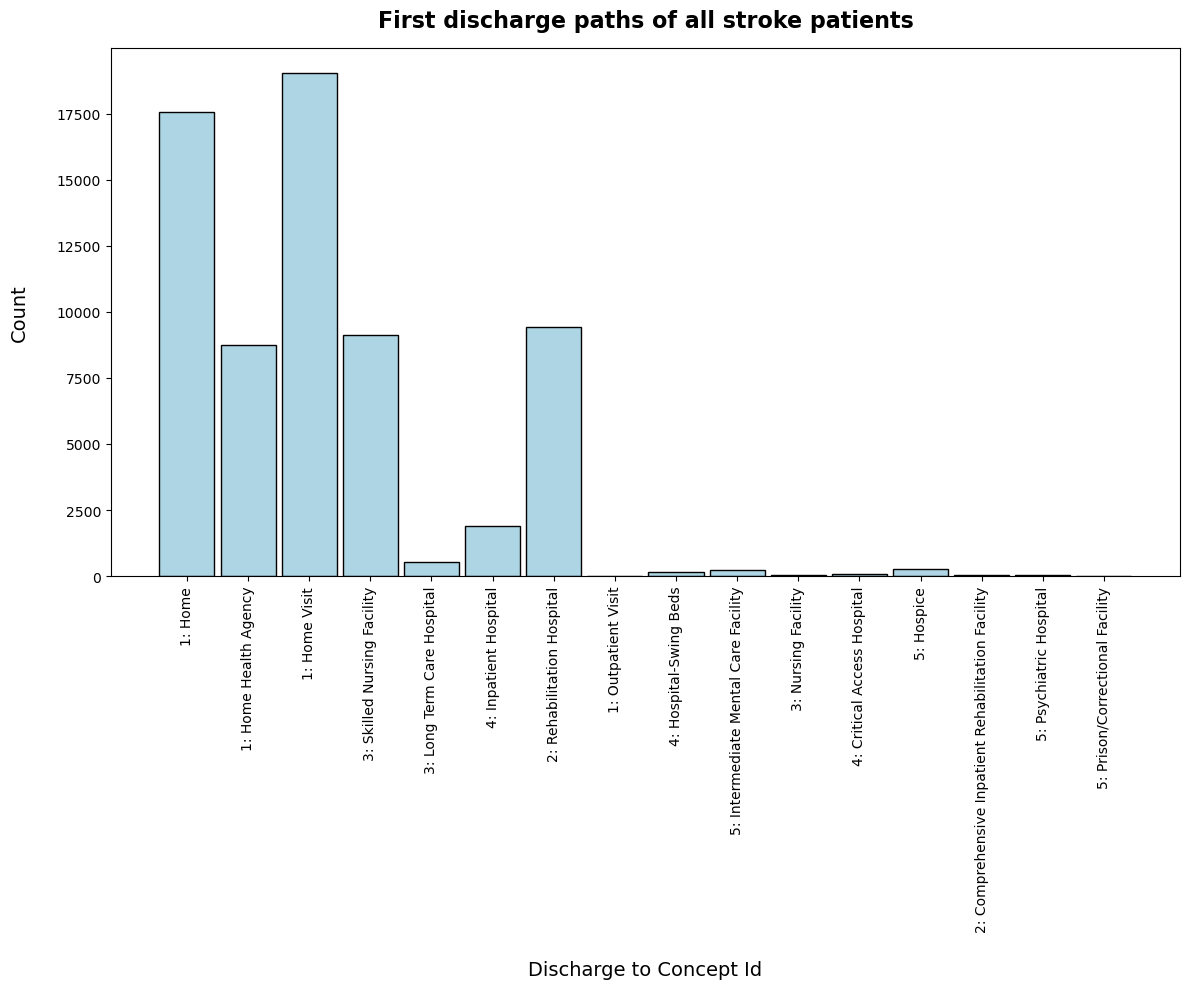
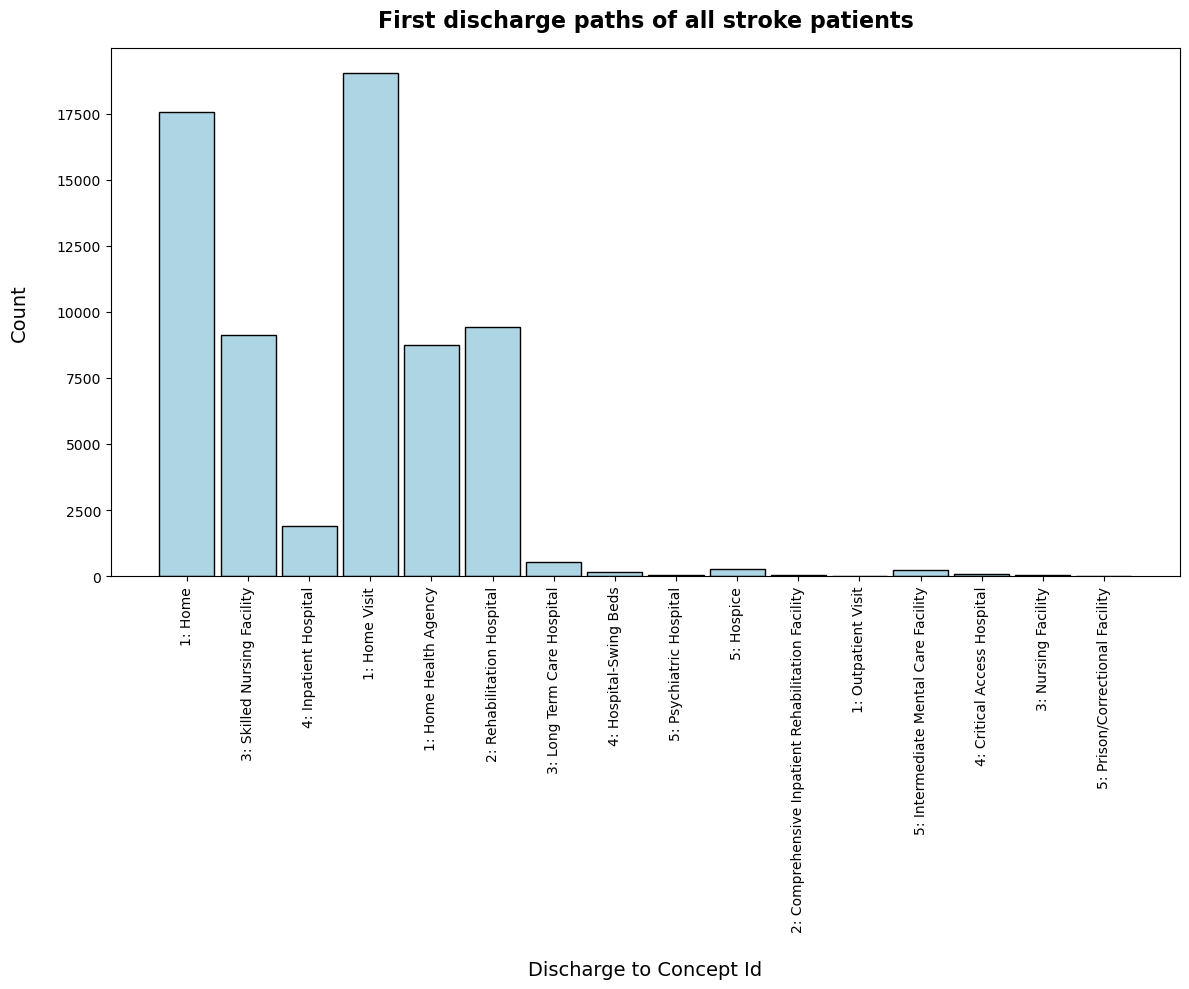
first discharge grouped cat plt

diff --git a/src/plot_first_discharge.py b/src/plot_first_discharge.py
@@ -18,6 +18,10 @@ FROM {work_schema}.{work_table}
 # run_query(con, query)
 df = read_df(con, query)
 # print(df.info())
+
+# create copy of discharge_to column for the grouped discharge category plot
+df["discharge_grouped"] = df["discharge_to_concept_id"].copy() 
+
 df["discharge_to_concept_id"] = df["discharge_to_concept_id"].map(
     discharge_to_concept_id.total_id
 )
@@ -26,6 +30,10 @@ print(f"First discharge concept IDs are: {first_discharge}")
 print(
     f"There are {len(first_discharge)} types of discharge types for all stroke patients"
 )
+
+# discharged grouped column mapped
+df["discharge_grouped"] = df["discharge_grouped"].map(
+    discharge_to_concept_id.group_mapping)
 
 # Plot 1
 plt.figure(figsize=(12,10))
@@ -36,4 +44,14 @@ plt.ylabel("Count", fontsize=14, labelpad=20)
 plt.title("First discharge paths of all stroke patients", fontsize=16, weight="bold", pad=15, loc="center")
 plt.tight_layout()
 plt.savefig("figs/first_discharge.png", bbox_inches="tight")
+plt.show()
+
+# Plot 2 - Grouped
+plt.figure(figsize=(10,10))
+sns.histplot(data=df, x="discharge_grouped", hue="discharge_grouped", palette="ocean", shrink=0.9)
+plt.xticks(rotation=90)
+plt.xlabel("Discharge_to by Categories", fontsize=14, labelpad=20)
+plt.ylabel("Count", fontsize=14, labelpad=20)
+plt.title("First discharge for all stroke patients - Grouped", fontsize=16, weight="bold", pad=15, loc="center")
+plt.savefig("figs/first_discharge_grouped.png", bbox_inches="tight")
 plt.show()
